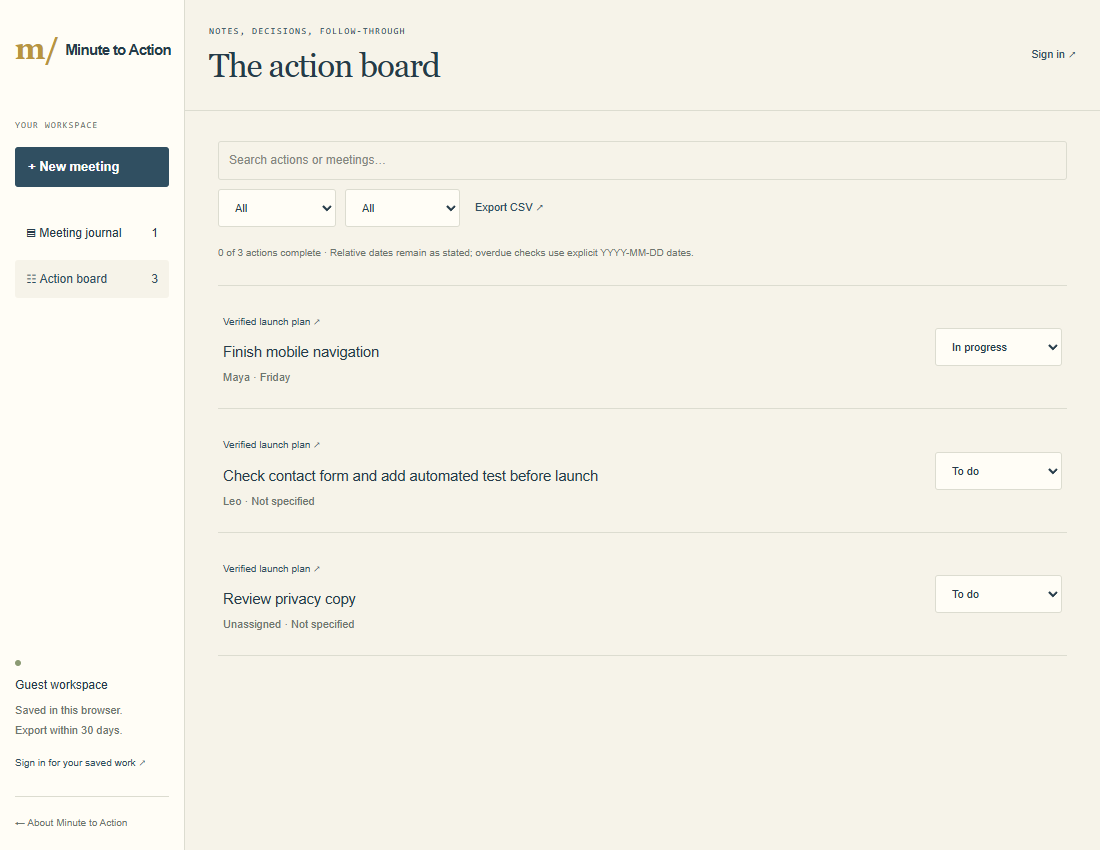
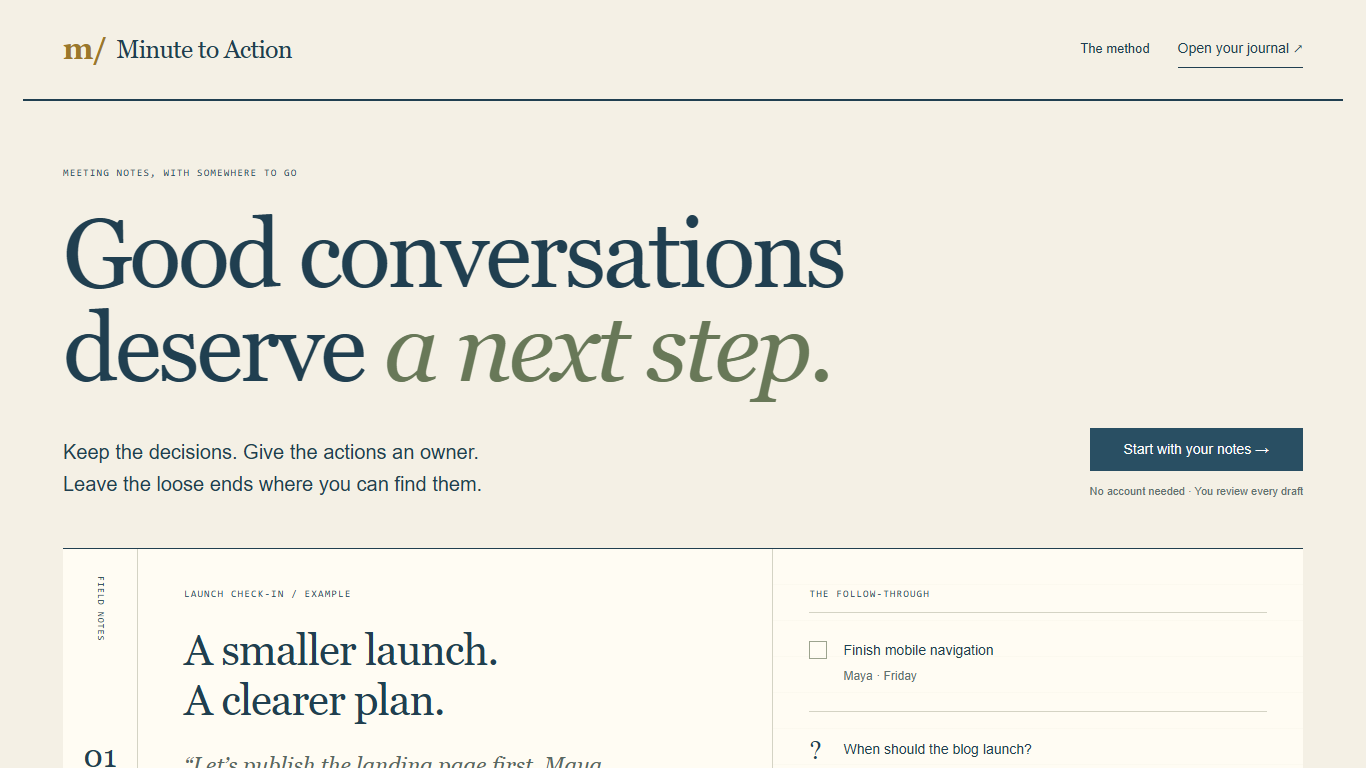
Give products distinct visual identities and refresh portfolio

diff --git a/app/home-markup.ts b/app/home-markup.ts
@@ -68,7 +68,8 @@ export const homeMarkup = `<a class="skip-link" href="#main-content">Skip to con
 <article class="work"><div class="frame"><img src="/reply-desk.png" alt="Reply Desk standalone support workspace" loading="lazy"><div class="quick"><a href="https://support-desk-ai-noel-perlands-projects.vercel.app/">Open app &nearr;</a><a href="https://github.com/NoelPerland/support-desk-ai" target="_blank" rel="noreferrer">Code &nearr;</a></div></div><div class="meta"><h3>Reply Desk</h3><span class="yr">2026</span></div><p class="desc">Support requests become editable triage and reply drafts. Cookie-bound workspaces, database rules, and validated model output protect saved work. <a href="/work/reply-desk">Engineering notes &rarr;</a></p><div class="tools"><span>Next.js</span><span>TypeScript</span><span>Groq</span><span>Supabase</span></div></article>
 <article class="work"><div class="frame"><img src="/minute-to-action.png" alt="Minute to Action standalone meeting journal" loading="lazy"><div class="quick"><a href="https://minute-to-action-noel-perlands-projects.vercel.app/">Open app &nearr;</a><a href="https://github.com/NoelPerland/minute-to-action" target="_blank" rel="noreferrer">Code &nearr;</a></div></div><div class="meta"><h3>Minute to Action</h3><span class="yr">2026</span></div><p class="desc">Meeting notes become editable decisions and action lists. Unknown owners and dates stay unassigned; exports preserve edits. <a href="/work/minute-to-action">Engineering notes &rarr;</a></p><div class="tools"><span>Next.js</span><span>TypeScript</span><span>Groq</span><span>Supabase</span></div></article>
 <article class="work"><div class="frame"><img src="/game-hub.png" alt="Noel’s browser game collection" loading="lazy"><div class="quick"><a href="https://noelperland.github.io/noels-game-hub/" target="_blank" rel="noreferrer">Play games &nearr;</a><a href="https://github.com/NoelPerland/noels-game-hub" target="_blank" rel="noreferrer">Code &nearr;</a></div></div><div class="meta"><h3>Noel’s Game Hub</h3><span class="yr">2026</span></div><p class="desc">Nine playable browser games in one hub. Each game has its own source and release; input, progression and save behavior have repeatable checks. <a href="/work/game-hub">Engineering notes &rarr;</a></p><div class="tools"><span>Phaser</span><span>Three.js</span><span>Unity</span></div></article>
-</div><h3 class="more-work">More experiments</h3><div class="works">
+</div><h3 class="more-work">More projects</h3><div class="works">
+<article class="work"><div class="frame"><img src="/calorie-tracker.png" alt="Calorie Tracker sign-in screen" loading="lazy"><div class="quick"><a href="https://noelperland.github.io/calorie-tracker/" target="_blank" rel="noreferrer">Open app &nearr;</a><a href="https://github.com/NoelPerland/calorie-tracker" target="_blank" rel="noreferrer">Code &nearr;</a></div></div><div class="meta"><h3>Calorie Tracker</h3><span class="yr">2026</span></div><p class="desc">Personal nutrition tracker for daily calories, macros and meal history. Log meals through ChatGPT, food photos or barcode scans. Account required.</p><div class="tools"><span>React</span><span>TypeScript</span><span>Supabase</span></div></article>
 <article class="work">
         <div class="frame"><img src="/vendorflow-ai.png" alt="VendorFlow AI screenshot"><div class="quick"><a href="https://vendorflowai.apps.liivo.io" target="_blank" rel="noreferrer">Visit &nearr;</a><a href="https://github.com/NoelPerland/vendorflow-ai" target="_blank" rel="noreferrer">Code &nearr;</a></div></div>
         <div class="meta"><h3>VendorFlow AI [WIP]</h3><span class="yr">2026</span></div>

diff --git a/README.md b/README.md
@@ -23,6 +23,7 @@ The homepage works without secrets. For the legacy AI routes, copy `.env.example
 | --- | --- | --- |
 | Reply Desk | [Open app](https://support-desk-ai-noel-perlands-projects.vercel.app/) | [support-desk-ai](https://github.com/NoelPerland/support-desk-ai) |
 | Minute to Action | [Open app](https://minute-to-action-noel-perlands-projects.vercel.app/) | [minute-to-action](https://github.com/NoelPerland/minute-to-action) |
+| Calorie Tracker | [Open app](https://noelperland.github.io/calorie-tracker/) (account required) | [calorie-tracker](https://github.com/NoelPerland/calorie-tracker) |
 | Game Hub | [Play games](https://noelperland.github.io/noels-game-hub/) | [noels-game-hub](https://github.com/NoelPerland/noels-game-hub) |
 
 Clone a product's repository separately to develop it. Each AI app has its own Next.js deployment, README, `.env.example`, tests and database schema notes. Portfolio cards link out to them. The embedded routes described below remain for compatibility with previous saved work.
